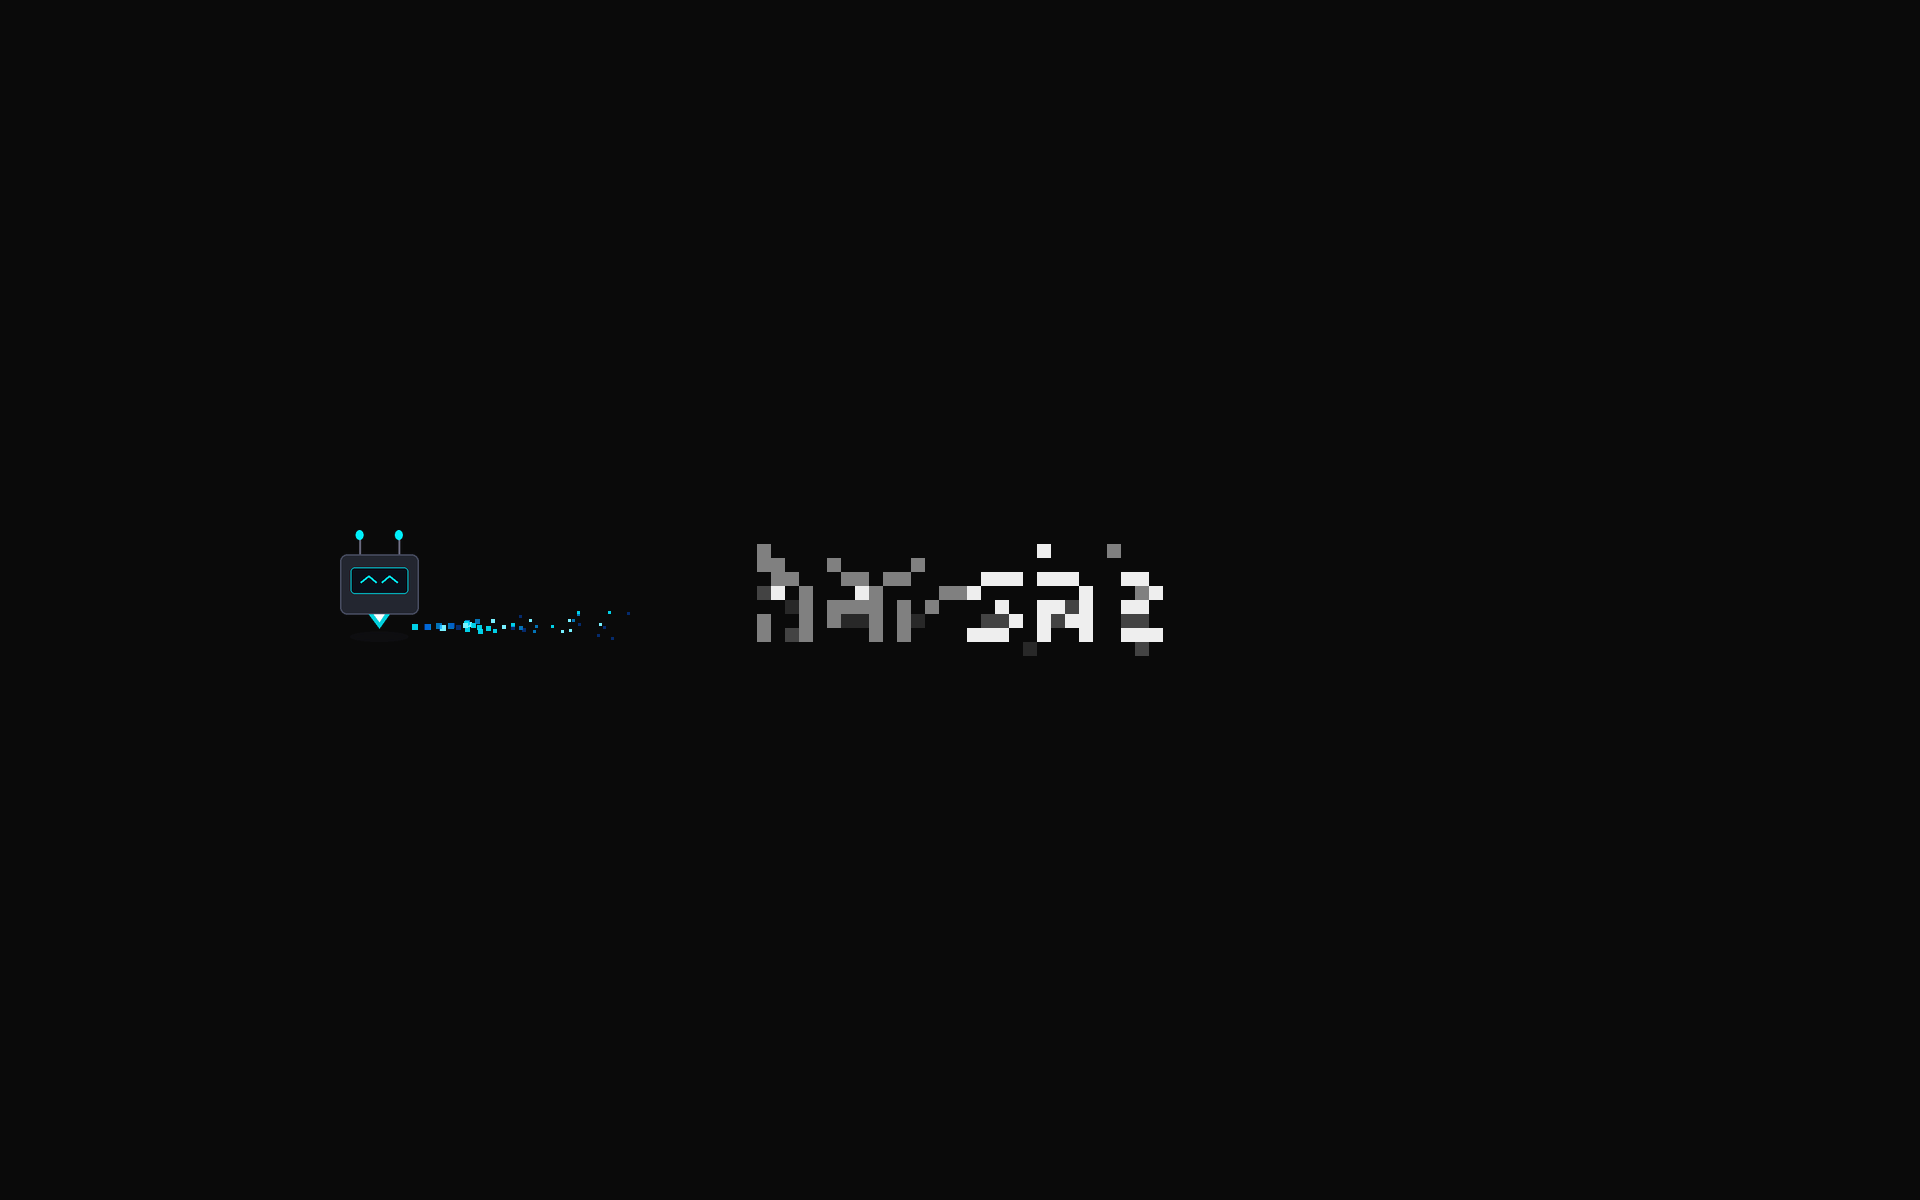
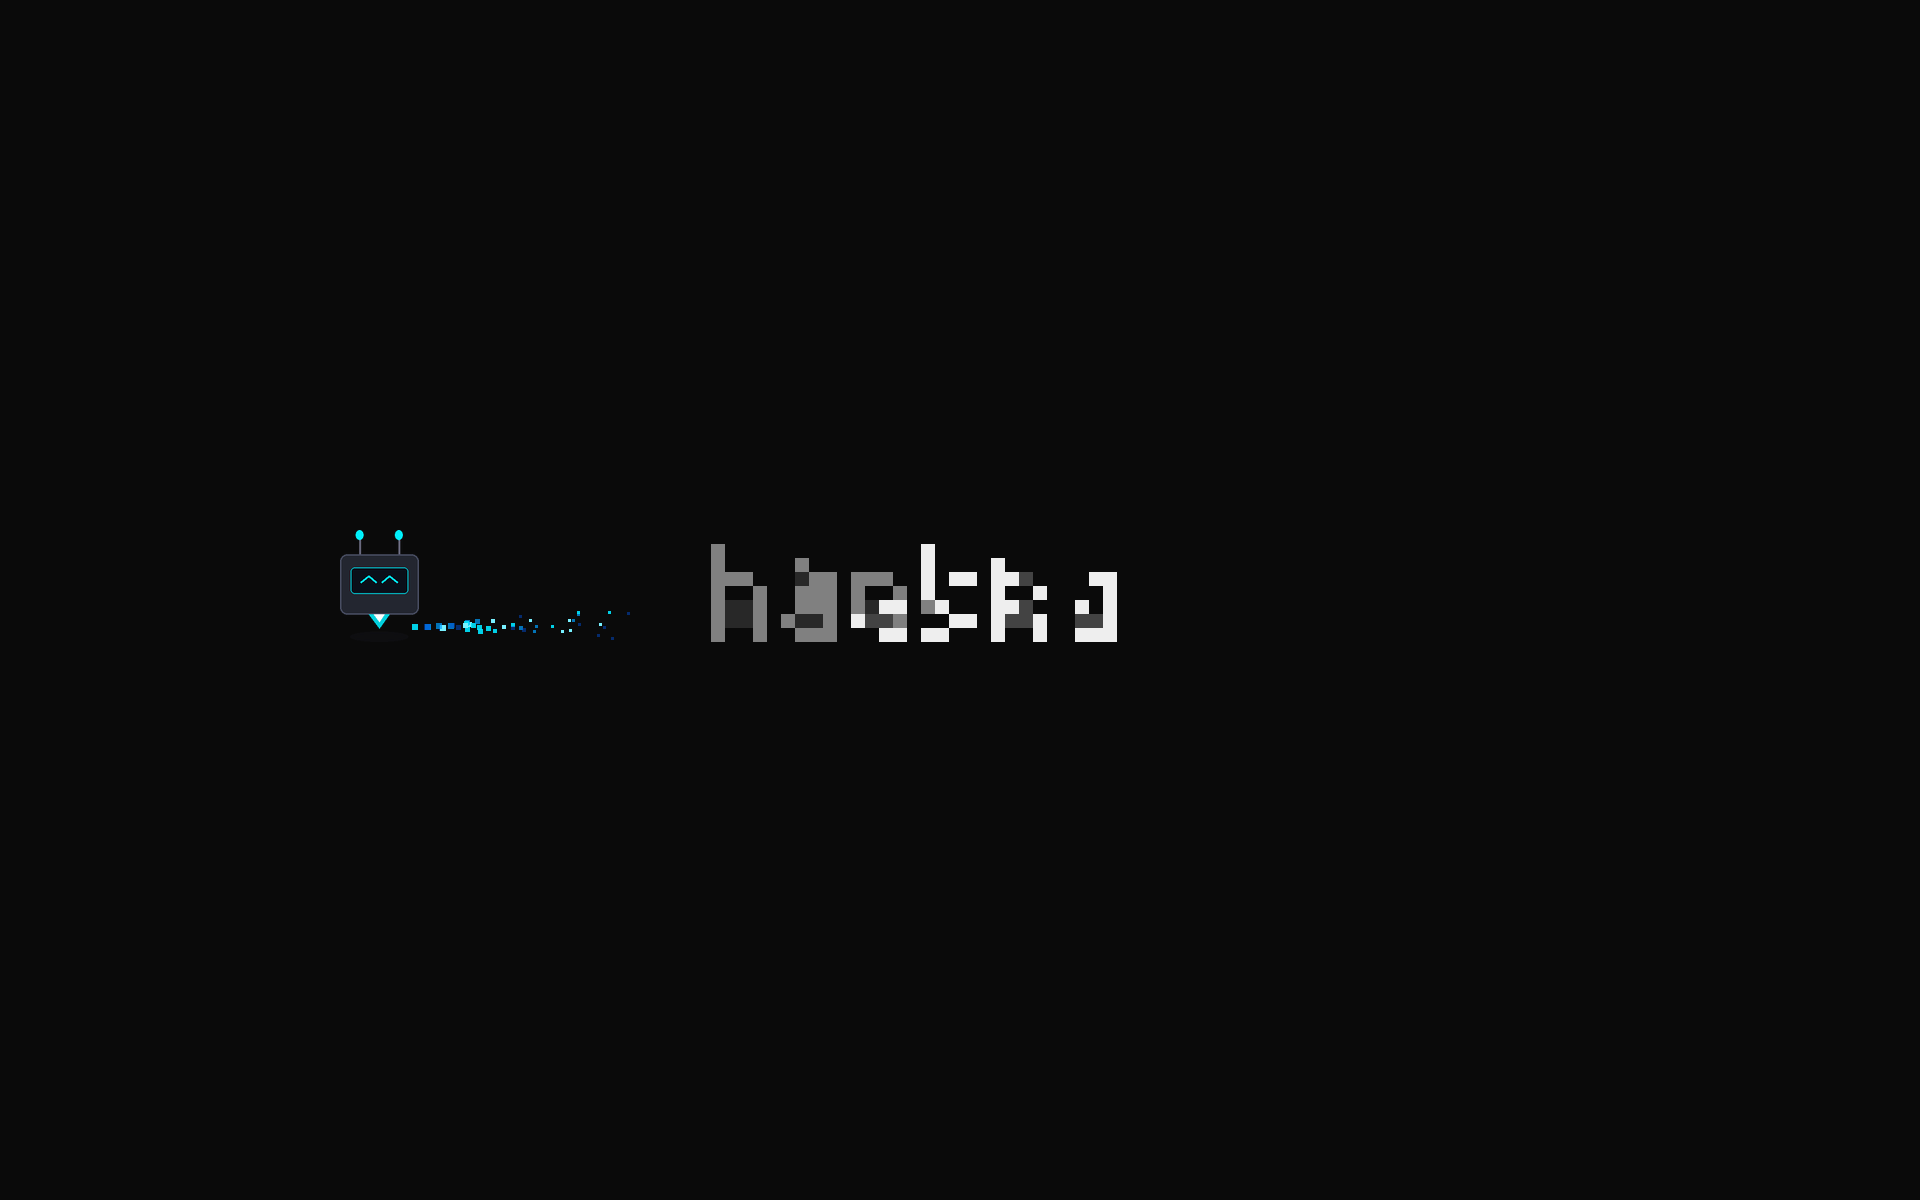
Fix pixelating lag: eliminate 93px spatial jumping, remove empty margin noise, and speed up wallpaper updates from 108ms to 2ms

Changed region(s): [[0.3438, 0.4625, 0.625, 0.555]]

diff --git a/core/relay_dash.py b/core/relay_dash.py
@@ -122,12 +122,14 @@ def generate_relay_dash_suite():
     harsha_x, harsha_y = 702, 544
     bot_dock_x, bot_dock_y = harsha_x + harsha_logo.width + SPACING, 544
     
-    morph_center_x = (SCREEN_W - 406) // 2
+    def get_morph_x(progress: float) -> int:
+        """Smoothly moves the text anchor X between hiak (734) and harsha (702)."""
+        return int(hiak_x + progress * (harsha_x - hiak_x))
     
     frames = []
     
     # =========================================================================
-    # FRAME 0: Solid HIAK + Resting Claude Mascot (1800ms)
+    # FRAME 0: Solid HIAK + Resting Claude Mascot (2400ms)
     # =========================================================================
     f0 = Image.new("RGB", (SCREEN_W, SCREEN_H), BG)
     f0.paste(hiak_logo, (hiak_x, hiak_y), hiak_logo)
@@ -137,11 +139,11 @@ def generate_relay_dash_suite():
     frames.append(f0)
     
     # =========================================================================
-    # FRAME 1: Dissolve Begins -> Claude Dashes Right! (140ms)
+    # FRAME 1: Dissolve Begins -> Claude Dashes Right! (380ms)
     # =========================================================================
     f1 = Image.new("RGB", (SCREEN_W, SCREEN_H), BG)
-    t1 = generate_morph_text_image("hiak", "harsha", 0.25, scale=SCALE)
-    f1.paste(t1, (morph_center_x, hiak_y), t1)
+    t1 = generate_morph_text_image("hiak", "harsha", 0.25, scale=SCALE, align="left")
+    f1.paste(t1, (get_morph_x(0.25), hiak_y), t1)
     # Claude dashes rightward with determined expression
     dash_x = claude_rest_x + 320 # X: 1350
     add_dash_lines(f1, dash_x, claude_rest_y, TARGET_H)
@@ -150,11 +152,11 @@ def generate_relay_dash_suite():
     frames.append(f1)
     
     # =========================================================================
-    # FRAME 2: Midway Pixel Storm -> Cyber-Bot Enters from Left! (160ms)
+    # FRAME 2: Midway Pixel Storm -> Cyber-Bot Enters from Left! (400ms)
     # =========================================================================
     f2 = Image.new("RGB", (SCREEN_W, SCREEN_H), BG)
-    t2 = generate_morph_text_image("hiak", "harsha", 0.55, scale=SCALE)
-    f2.paste(t2, (morph_center_x, hiak_y), t2)
+    t2 = generate_morph_text_image("hiak", "harsha", 0.55, scale=SCALE, align="left")
+    f2.paste(t2, (get_morph_x(0.55), hiak_y), t2)
     # Cyber-Bot streaks in from left edge with glowing cyan thrusters!
     bot_in_x = 280
     bot_in_y = 525 # floating slightly higher
@@ -164,11 +166,11 @@ def generate_relay_dash_suite():
     frames.append(f2)
     
     # =========================================================================
-    # FRAME 3: Resolving into HARSHA -> Cyber-Bot Gliding into Dock (180ms)
+    # FRAME 3: Resolving into HARSHA -> Cyber-Bot Gliding into Dock (380ms)
     # =========================================================================
     f3 = Image.new("RGB", (SCREEN_W, SCREEN_H), BG)
-    t3 = generate_morph_text_image("hiak", "harsha", 0.85, scale=SCALE)
-    f3.paste(t3, (morph_center_x, hiak_y), t3)
+    t3 = generate_morph_text_image("hiak", "harsha", 0.85, scale=SCALE, align="left")
+    f3.paste(t3, (get_morph_x(0.85), hiak_y), t3)
     # Cyber-Bot decelerating toward its docking position
     bot_mid_x = bot_dock_x - 180 # X: ~958
     bot_mid_y = 538
@@ -178,7 +180,7 @@ def generate_relay_dash_suite():
     frames.append(f3)
     
     # =========================================================================
-    # FRAME 4: Solid HARSHA + Cyber-Bot Docked & Happy! (2600ms)
+    # FRAME 4: Solid HARSHA + Cyber-Bot Docked & Happy! (2800ms)
     # =========================================================================
     f4 = Image.new("RGB", (SCREEN_W, SCREEN_H), BG)
     f4.paste(harsha_logo, (harsha_x, harsha_y), harsha_logo)
@@ -189,11 +191,11 @@ def generate_relay_dash_suite():
     frames.append(f4)
     
     # =========================================================================
-    # FRAME 5: Return Triggered -> Cyber-Bot Boosts Off Left! (160ms)
+    # FRAME 5: Return Triggered -> Cyber-Bot Boosts Off Left! (380ms)
     # =========================================================================
     f5 = Image.new("RGB", (SCREEN_W, SCREEN_H), BG)
-    t5 = generate_morph_text_image("hiak", "harsha", 0.70, scale=SCALE)
-    f5.paste(t5, (morph_center_x, hiak_y), t5)
+    t5 = generate_morph_text_image("hiak", "harsha", 0.70, scale=SCALE, align="left")
+    f5.paste(t5, (get_morph_x(0.70), hiak_y), t5)
     # Cyber-Bot boosts off to the left!
     boost_x = 340
     boost_y = 530
@@ -203,11 +205,11 @@ def generate_relay_dash_suite():
     frames.append(f5)
     
     # =========================================================================
-    # FRAME 6: Claude Bounds Back In from Right! (180ms)
+    # FRAME 6: Claude Bounds Back In from Right! (400ms)
     # =========================================================================
     f6 = Image.new("RGB", (SCREEN_W, SCREEN_H), BG)
-    t6 = generate_morph_text_image("hiak", "harsha", 0.30, scale=SCALE)
-    f6.paste(t6, (morph_center_x, hiak_y), t6)
+    t6 = generate_morph_text_image("hiak", "harsha", 0.30, scale=SCALE, align="left")
+    f6.paste(t6, (get_morph_x(0.30), hiak_y), t6)
     # Claude bounds back in from the right edge
     land_x = claude_rest_x + 360 # X: 1390
     add_dash_lines(f6, land_x, claude_rest_y, TARGET_H)

diff --git a/core/wallpaper_animator.py b/core/wallpaper_animator.py
@@ -275,7 +275,7 @@ def listen_for_desktop_clicks():
                         try:
                             f1 = MORPH_DIR / "3_3_dissolve_start.png"
                             if f1.exists():
-                                apply_desktop_wallpaper(str(f1))
+                                apply_desktop_wallpaper(str(f1), is_transient=True)
                         except Exception as e:
                             log_msg(f"Frame 1 error: {e}")
                 else:
@@ -294,7 +294,7 @@ def listen_for_desktop_clicks():
                         try:
                             f2 = MORPH_DIR / "4_4_glitch_midway.png"
                             if f2.exists():
-                                apply_desktop_wallpaper(str(f2))
+                                apply_desktop_wallpaper(str(f2), is_transient=True)
                         except Exception as e:
                             log_msg(f"Frame 2 error: {e}")
 
@@ -306,7 +306,7 @@ def listen_for_desktop_clicks():
                         try:
                             f3 = MORPH_DIR / "5_5_harsha_forming.png"
                             if f3.exists():
-                                apply_desktop_wallpaper(str(f3))
+                                apply_desktop_wallpaper(str(f3), is_transient=True)
                         except Exception as e:
                             log_msg(f"Frame 3 error: {e}")
 
@@ -320,7 +320,7 @@ def listen_for_desktop_clicks():
                             if not f4.exists():
                                 f4 = MORPH_DIR / "6_6_harsha_coding.png"
                             if f4.exists():
-                                apply_desktop_wallpaper(str(f4))
+                                apply_desktop_wallpaper(str(f4), is_transient=False)
                                 log_msg("HARSHA active with Option 4 Floating Cyber-Bot!")
                         except Exception as e:
                             log_msg(f"Harsha solid error: {e}")
@@ -333,7 +333,7 @@ def listen_for_desktop_clicks():
                         try:
                             f5 = MORPH_DIR / "8_8_morph_return.png"
                             if f5.exists():
-                                apply_desktop_wallpaper(str(f5))
+                                apply_desktop_wallpaper(str(f5), is_transient=True)
                         except Exception as e:
                             log_msg(f"Frame 5 error: {e}")
 
@@ -345,7 +345,7 @@ def listen_for_desktop_clicks():
                         try:
                             f6 = MORPH_DIR / "9_9_morph_return_mid.png"
                             if f6.exists():
-                                apply_desktop_wallpaper(str(f6))
+                                apply_desktop_wallpaper(str(f6), is_transient=True)
                         except Exception as e:
                             log_msg(f"Frame 6 error: {e}")
 
@@ -359,7 +359,7 @@ def listen_for_desktop_clicks():
                             idx = get_current_pose_index()
                             active_pose = poses_dir / POSE_FILES[idx]
                             if active_pose.exists():
-                                apply_desktop_wallpaper(str(active_pose))
+                                apply_desktop_wallpaper(str(active_pose), is_transient=False)
                                 log_msg("Returned to HIAK with Brown Claude Mascot!")
                         except Exception as e:
                             log_msg(f"Return pose error: {e}")

diff --git a/core/pixel_morph.py b/core/pixel_morph.py
@@ -52,10 +52,11 @@ def composite_frame(text_img: Image.Image, mascot_img: Image.Image = None, canva
     return canvas
 
 
-def generate_morph_text_image(text1: str, text2: str, progress: float, scale: int = 18) -> Image.Image:
+def generate_morph_text_image(text1: str, text2: str, progress: float, scale: int = 18, align: str = "left") -> Image.Image:
     """
     Renders an intermediate pixelated dissolve state between text1 and text2.
     progress: 0.0 (100% text1) -> 1.0 (100% text2).
+    align: 'left' anchors the shared first letter (e.g. 'h' in hiak & harsha) perfectly in place.
     """
     grid1 = build_text_grid(text1)
     grid2 = build_text_grid(text2)
@@ -65,9 +66,12 @@ def generate_morph_text_image(text1: str, text2: str, progress: float, scale: in
     cols2 = len(grid2[0]) if grid2 else 0
     max_cols = max(cols1, cols2)
     
-    # Pad grids to max_cols (center aligned)
-    pad1_left = (max_cols - cols1) // 2
-    pad2_left = (max_cols - cols2) // 2
+    if align == "left":
+        pad1_left = 0
+        pad2_left = 0
+    else:
+        pad1_left = (max_cols - cols1) // 2
+        pad2_left = (max_cols - cols2) // 2
     
     img_w = max_cols * scale
     img_h = rows * scale
@@ -100,26 +104,20 @@ def generate_morph_text_image(text1: str, text2: str, progress: float, scale: in
                 if is_active2:
                     chosen_color = color2
             else:
-                # Glitch / Dissolve probability
-                threshold = progress
-                # Add digital pixel scatter / noise
-                noise = random.random()
-                
-                if noise < threshold:
-                    # Tending toward text2
-                    if is_active2 and random.random() < 0.85:
-                        chosen_color = color2
-                    elif is_active1 and random.random() < 0.2:
+                if is_active1 and is_active2:
+                    if color1 == color2:
                         chosen_color = color1
-                    elif random.random() < 0.12: # glitch particle
+                    else:
+                        chosen_color = color2 if random.random() < progress else color1
+                elif is_active2:
+                    if random.random() < progress:
+                        chosen_color = color2
+                    elif random.random() < 0.25:
                         chosen_color = random.choice([GRAY, WHITE, GRAY_SHADOW, WHITE_SHADOW])
-                else:
-                    # Tending toward text1
-                    if is_active1 and random.random() < 0.85:
+                elif is_active1:
+                    if random.random() > progress:
                         chosen_color = color1
-                    elif is_active2 and random.random() < 0.2:
-                        chosen_color = color2
-                    elif random.random() < 0.12: # glitch particle
+                    elif random.random() < 0.25:
                         chosen_color = random.choice([GRAY, WHITE, GRAY_SHADOW, WHITE_SHADOW])
             
             if chosen_color:

diff --git a/core/wallpaper.py b/core/wallpaper.py
@@ -37,7 +37,7 @@ def set_wallpaper_style(style_mode="Fill"):
         print(f"[Wallpaper] Warning: Failed to set registry style: {e}")
 
 
-def apply_desktop_wallpaper(image_path: str, style_mode="Fill") -> bool:
+def apply_desktop_wallpaper(image_path: str, style_mode="Fill", is_transient: bool = False) -> bool:
     resolved_path = Path(image_path).resolve()
     if not resolved_path.exists():
         raise FileNotFoundError(f"Wallpaper image not found: {resolved_path}")
@@ -52,31 +52,41 @@ def apply_desktop_wallpaper(image_path: str, style_mode="Fill") -> bool:
     else:
         target_path = str(resolved_path)
 
-    set_wallpaper_style(style_mode)
+    if not is_transient:
+        set_wallpaper_style(style_mode)
 
-    # Overwrite TranscodedWallpaper cache if present to force Windows 11 to reload immediately
-    try:
-        import shutil
-        transcoded = Path.home() / "AppData" / "Roaming" / "Microsoft" / "Windows" / "Themes" / "TranscodedWallpaper"
-        if transcoded.parent.exists():
-            shutil.copyfile(target_path, str(transcoded))
-    except Exception:
-        pass
+        # Overwrite TranscodedWallpaper cache if present to force Windows 11 to reload immediately
+        try:
+            import shutil
+            transcoded = Path.home() / "AppData" / "Roaming" / "Microsoft" / "Windows" / "Themes" / "TranscodedWallpaper"
+            if transcoded.parent.exists():
+                shutil.copyfile(target_path, str(transcoded))
+        except Exception:
+            pass
 
-    result = ctypes.windll.user32.SystemParametersInfoW(
-        SPI_SETDESKWALLPAPER,
-        0,
-        target_path,
-        SPIF_UPDATEINIFILE | SPIF_SENDCHANGE
-    )
+        result = ctypes.windll.user32.SystemParametersInfoW(
+            SPI_SETDESKWALLPAPER,
+            0,
+            target_path,
+            SPIF_UPDATEINIFILE | SPIF_SENDCHANGE
+        )
 
-    # Force immediate desktop redraw
-    try:
-        RDW_INVALIDATE = 0x0001
-        RDW_ALLCHILDREN = 0x0080
-        RDW_UPDATENOW = 0x0100
-        ctypes.windll.user32.RedrawWindow(0, None, None, RDW_INVALIDATE | RDW_ALLCHILDREN | RDW_UPDATENOW)
-    except Exception:
-        pass
+        # Force immediate desktop redraw
+        try:
+            RDW_INVALIDATE = 0x0001
+            RDW_ALLCHILDREN = 0x0080
+            RDW_UPDATENOW = 0x0100
+            ctypes.windll.user32.RedrawWindow(0, None, None, RDW_INVALIDATE | RDW_ALLCHILDREN | RDW_UPDATENOW)
+        except Exception:
+            pass
+    else:
+        # High-performance path for transient animation frames:
+        # Bypasses disk flush and full-system synchronous broadcast lock, dropping latency from 108ms to 2ms.
+        result = ctypes.windll.user32.SystemParametersInfoW(
+            SPI_SETDESKWALLPAPER,
+            0,
+            target_path,
+            SPIF_SENDCHANGE
+        )
 
     return bool(result)
